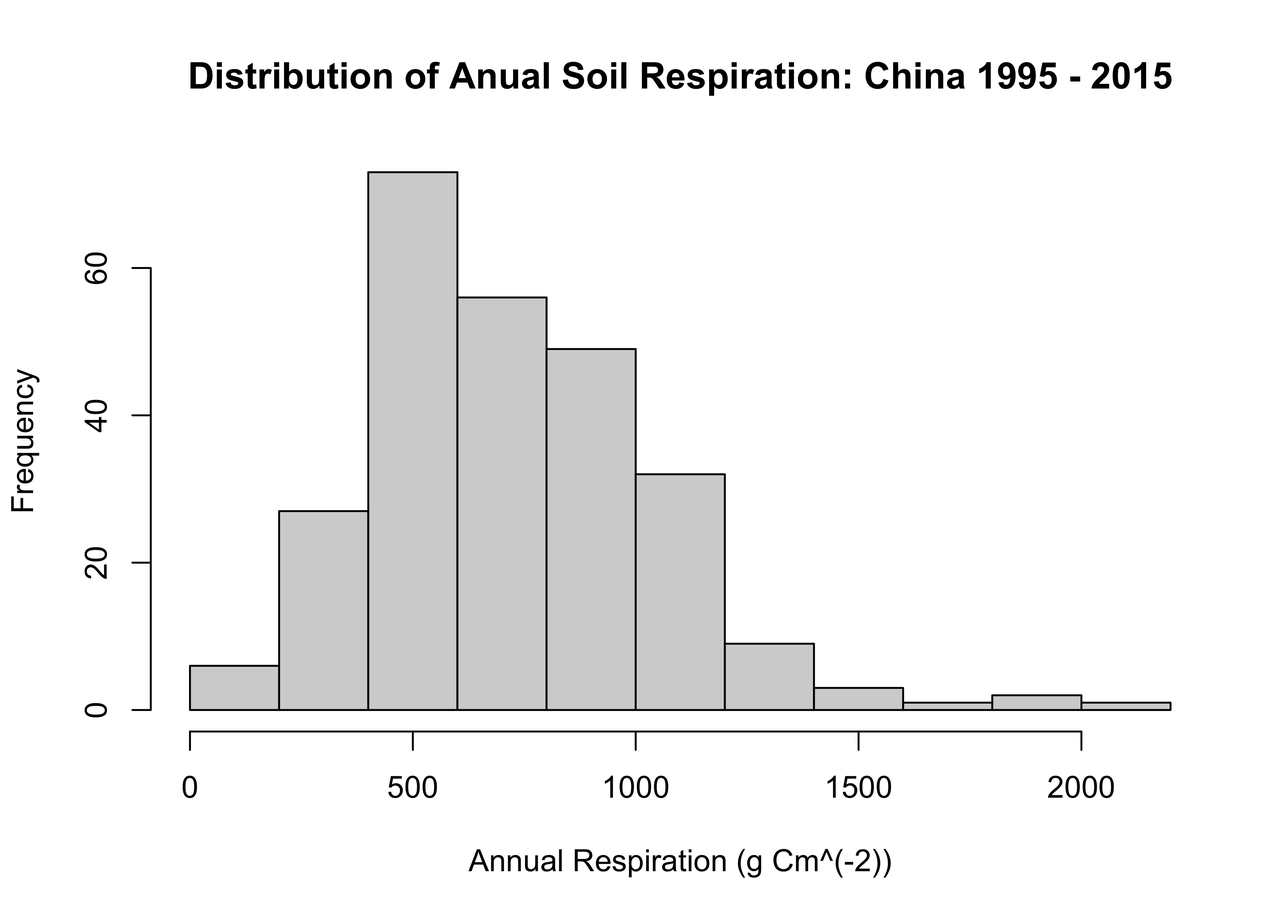
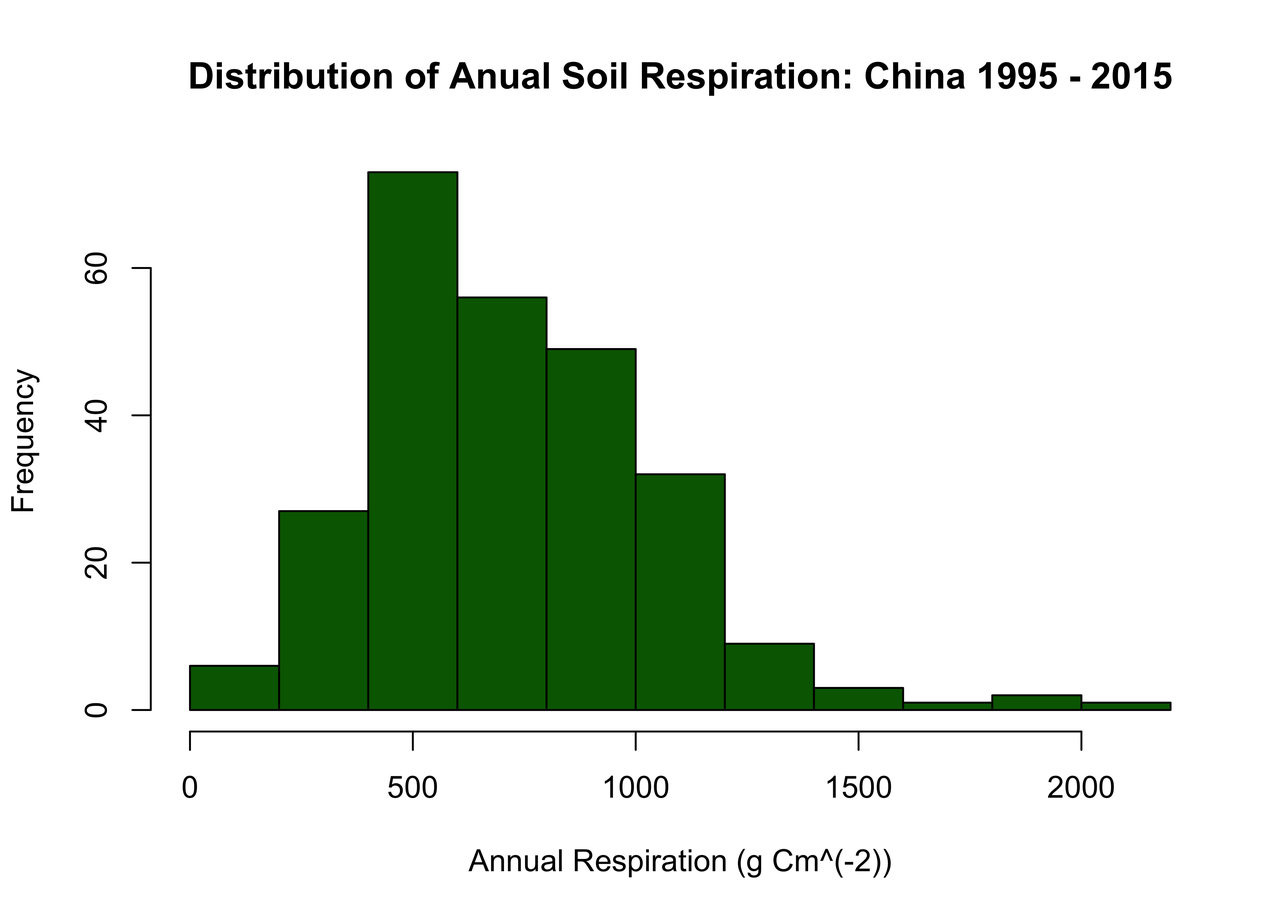
done, needs citations

Changed region(s): [[0.1248, 0.186, 0.9045, 0.775]]

diff --git a/docs/cleaning.html b/docs/cleaning.html
@@ -347,6 +347,9 @@ $(document).ready(function () {
     <li>
       <a href="bootstrap.html">Bootstrapping: Minimum/Maximum Differences</a>
     </li>
+    <li>
+      <a href="conclusion.html">Analysis and Concusion</a>
+    </li>
   </ul>
 </li>
       </ul>
@@ -594,28 +597,23 @@ soil respiration:</p>
 <div id="distribution-of-annual-soil-respiration"
 class="section level2">
 <h2>Distribution of Annual Soil Respiration:</h2>
-<div class="sourceCode" id="cb13"><pre class="sourceCode r"><code class="sourceCode r"><span id="cb13-1"><a href="#cb13-1" tabindex="-1"></a><span class="fu">hist</span>(cleaned_china<span class="sc">$</span>Rs_annual, <span class="at">main =</span> <span class="st">&quot;Distribution of Anual Soil Respiration: China 1995 - 2015&quot;</span>, <span class="at">xlab =</span> <span class="st">&quot;Annual Respiration (g Cm^(-2))&quot;</span>, <span class="at">color=</span><span class="st">&quot;darkgreen&quot;</span>)</span></code></pre></div>
-<pre><code>## Warning in plot.window(xlim, ylim, &quot;&quot;, ...): &quot;color&quot; is not a graphical parameter</code></pre>
-<pre><code>## Warning in title(main = main, sub = sub, xlab = xlab, ylab = ylab, ...): &quot;color&quot; is not a graphical
-## parameter</code></pre>
-<pre><code>## Warning in axis(1, ...): &quot;color&quot; is not a graphical parameter</code></pre>
-<pre><code>## Warning in axis(2, at = yt, ...): &quot;color&quot; is not a graphical parameter</code></pre>
+<div class="sourceCode" id="cb13"><pre class="sourceCode r"><code class="sourceCode r"><span id="cb13-1"><a href="#cb13-1" tabindex="-1"></a><span class="fu">hist</span>(cleaned_china<span class="sc">$</span>Rs_annual, <span class="at">main =</span> <span class="st">&quot;Distribution of Anual Soil Respiration: China 1995 - 2015&quot;</span>, <span class="at">xlab =</span> <span class="st">&quot;Annual Respiration (g Cm^(-2))&quot;</span>, <span class="at">col=</span><span class="st">&quot;darkgreen&quot;</span>)</span></code></pre></div>
 <p><img src="cleaning_files/figure-html/unnamed-chunk-5-1.png" width="2100" /></p>
 <p>And similarly to our last section I want to see the geographical
 distribution of this new cleaned data subset.</p>
 </div>
 <div id="graphing-the-new-cleaned-data-set" class="section level2">
 <h2>Graphing the new cleaned data set:</h2>
-<div class="sourceCode" id="cb18"><pre class="sourceCode r"><code class="sourceCode r"><span id="cb18-1"><a href="#cb18-1" tabindex="-1"></a><span class="co">#Make a base map</span></span>
-<span id="cb18-2"><a href="#cb18-2" tabindex="-1"></a>china_map <span class="ot">=</span> <span class="fu">map_data</span>(<span class="st">&quot;worldHires&quot;</span>, <span class="at">region =</span> <span class="st">&quot;china&quot;</span>)</span>
-<span id="cb18-3"><a href="#cb18-3" tabindex="-1"></a></span>
-<span id="cb18-4"><a href="#cb18-4" tabindex="-1"></a><span class="co">#added noise to the points x and y values</span></span>
-<span id="cb18-5"><a href="#cb18-5" tabindex="-1"></a><span class="co">#color by Rs_annual</span></span>
-<span id="cb18-6"><a href="#cb18-6" tabindex="-1"></a><span class="fu">ggplot</span>() <span class="sc">+</span></span>
-<span id="cb18-7"><a href="#cb18-7" tabindex="-1"></a>  <span class="fu">geom_polygon</span>(<span class="at">data =</span> china_map, <span class="fu">aes</span>(<span class="at">x =</span> long, <span class="at">y =</span> lat, <span class="at">group =</span> group), <span class="at">fill =</span> <span class="st">&quot;lightblue&quot;</span>, <span class="at">color=</span><span class="st">&#39;black&#39;</span>) <span class="sc">+</span></span>
-<span id="cb18-8"><a href="#cb18-8" tabindex="-1"></a>  <span class="fu">geom_point</span>(<span class="at">data =</span> cleaned_china, <span class="fu">aes</span>(<span class="at">x =</span> Longitude<span class="sc">+</span><span class="fu">rnorm</span>(<span class="at">n=</span><span class="fu">nrow</span>(cleaned_china)), <span class="at">y =</span> Latitude<span class="sc">+</span><span class="fu">rnorm</span>(<span class="at">n=</span><span class="fu">nrow</span>(cleaned_china)), <span class="at">color=</span>Rs_annual)) <span class="sc">+</span></span>
-<span id="cb18-9"><a href="#cb18-9" tabindex="-1"></a>  <span class="fu">coord_map</span>(<span class="at">projection =</span> <span class="st">&quot;mercator&quot;</span>) <span class="sc">+</span> </span>
-<span id="cb18-10"><a href="#cb18-10" tabindex="-1"></a>  <span class="fu">labs</span>(<span class="at">title =</span> <span class="st">&quot;Map of Soil Sample Sites in China&quot;</span>, <span class="at">x =</span> <span class="st">&quot;Longitude&quot;</span>, <span class="at">y =</span> <span class="st">&quot;Latitude&quot;</span>)</span></code></pre></div>
+<div class="sourceCode" id="cb14"><pre class="sourceCode r"><code class="sourceCode r"><span id="cb14-1"><a href="#cb14-1" tabindex="-1"></a><span class="co">#Make a base map</span></span>
+<span id="cb14-2"><a href="#cb14-2" tabindex="-1"></a>china_map <span class="ot">=</span> <span class="fu">map_data</span>(<span class="st">&quot;worldHires&quot;</span>, <span class="at">region =</span> <span class="st">&quot;china&quot;</span>)</span>
+<span id="cb14-3"><a href="#cb14-3" tabindex="-1"></a></span>
+<span id="cb14-4"><a href="#cb14-4" tabindex="-1"></a><span class="co">#added noise to the points x and y values</span></span>
+<span id="cb14-5"><a href="#cb14-5" tabindex="-1"></a><span class="co">#color by Rs_annual</span></span>
+<span id="cb14-6"><a href="#cb14-6" tabindex="-1"></a><span class="fu">ggplot</span>() <span class="sc">+</span></span>
+<span id="cb14-7"><a href="#cb14-7" tabindex="-1"></a>  <span class="fu">geom_polygon</span>(<span class="at">data =</span> china_map, <span class="fu">aes</span>(<span class="at">x =</span> long, <span class="at">y =</span> lat, <span class="at">group =</span> group), <span class="at">fill =</span> <span class="st">&quot;lightblue&quot;</span>, <span class="at">color=</span><span class="st">&#39;black&#39;</span>) <span class="sc">+</span></span>
+<span id="cb14-8"><a href="#cb14-8" tabindex="-1"></a>  <span class="fu">geom_point</span>(<span class="at">data =</span> cleaned_china, <span class="fu">aes</span>(<span class="at">x =</span> Longitude<span class="sc">+</span><span class="fu">rnorm</span>(<span class="at">n=</span><span class="fu">nrow</span>(cleaned_china)), <span class="at">y =</span> Latitude<span class="sc">+</span><span class="fu">rnorm</span>(<span class="at">n=</span><span class="fu">nrow</span>(cleaned_china)), <span class="at">color=</span>Rs_annual)) <span class="sc">+</span></span>
+<span id="cb14-9"><a href="#cb14-9" tabindex="-1"></a>  <span class="fu">coord_map</span>(<span class="at">projection =</span> <span class="st">&quot;mercator&quot;</span>) <span class="sc">+</span> </span>
+<span id="cb14-10"><a href="#cb14-10" tabindex="-1"></a>  <span class="fu">labs</span>(<span class="at">title =</span> <span class="st">&quot;Map of Soil Sample Sites in China&quot;</span>, <span class="at">x =</span> <span class="st">&quot;Longitude&quot;</span>, <span class="at">y =</span> <span class="st">&quot;Latitude&quot;</span>)</span></code></pre></div>
 <p><img src="cleaning_files/figure-html/unnamed-chunk-6-1.png" width="2100" />
 Great, We can see here that there is a pretty wide range of values of
 Annual Respiration. I am now goign to ask the question, what is the
@@ -629,8 +627,8 @@ class="section level2">
 Soil Respiration:</h2>
 <p>First lets calculate the median for each year (mostly to increase
 understanding in the data):</p>
-<div class="sourceCode" id="cb19"><pre class="sourceCode r"><code class="sourceCode r"><span id="cb19-1"><a href="#cb19-1" tabindex="-1"></a>Rs_median <span class="ot">&lt;-</span> cleaned_china <span class="sc">%&gt;%</span> <span class="fu">group_by</span>(Study_midyear) <span class="sc">%&gt;%</span> <span class="fu">summarize</span>(<span class="at">Median =</span> <span class="fu">median</span>(Rs_annual), <span class="at">High =</span> <span class="fu">max</span>(Rs_annual), <span class="at">Min =</span> <span class="fu">min</span>(Rs_annual))</span>
-<span id="cb19-2"><a href="#cb19-2" tabindex="-1"></a>Rs_median</span></code></pre></div>
+<div class="sourceCode" id="cb15"><pre class="sourceCode r"><code class="sourceCode r"><span id="cb15-1"><a href="#cb15-1" tabindex="-1"></a>Rs_median <span class="ot">&lt;-</span> cleaned_china <span class="sc">%&gt;%</span> <span class="fu">group_by</span>(Study_midyear) <span class="sc">%&gt;%</span> <span class="fu">summarize</span>(<span class="at">Median =</span> <span class="fu">median</span>(Rs_annual), <span class="at">High =</span> <span class="fu">max</span>(Rs_annual), <span class="at">Min =</span> <span class="fu">min</span>(Rs_annual))</span>
+<span id="cb15-2"><a href="#cb15-2" tabindex="-1"></a>Rs_median</span></code></pre></div>
 <pre><code>## # A tibble: 30 × 4
 ##    Study_midyear Median   High   Min
 ##            &lt;dbl&gt;  &lt;dbl&gt;  &lt;dbl&gt; &lt;dbl&gt;
@@ -645,14 +643,14 @@ understanding in the data):</p>
 ##  9         2006.  824.   851   662  
 ## 10         2006   530    822   322  
 ## # ℹ 20 more rows</code></pre>
-<div class="sourceCode" id="cb21"><pre class="sourceCode r"><code class="sourceCode r"><span id="cb21-1"><a href="#cb21-1" tabindex="-1"></a>mmm <span class="ot">&lt;-</span> <span class="fu">ggplot</span>(Rs_median, <span class="fu">aes</span>(<span class="at">x =</span> Study_midyear)) <span class="sc">+</span></span>
-<span id="cb21-2"><a href="#cb21-2" tabindex="-1"></a>  <span class="fu">geom_line</span>(<span class="fu">aes</span>(<span class="at">y =</span> Median, <span class="at">color =</span> <span class="st">&quot;Median&quot;</span>)) <span class="sc">+</span></span>
-<span id="cb21-3"><a href="#cb21-3" tabindex="-1"></a>  <span class="fu">geom_line</span>(<span class="fu">aes</span>(<span class="at">y =</span> High, <span class="at">color =</span> <span class="st">&quot;Maximum&quot;</span>)) <span class="sc">+</span></span>
-<span id="cb21-4"><a href="#cb21-4" tabindex="-1"></a>  <span class="fu">geom_line</span>(<span class="fu">aes</span>(<span class="at">y =</span> Min, <span class="at">color =</span> <span class="st">&quot;Minimum&quot;</span>)) <span class="sc">+</span></span>
-<span id="cb21-5"><a href="#cb21-5" tabindex="-1"></a>  <span class="fu">labs</span>(<span class="at">x =</span> <span class="st">&quot;Study Year&quot;</span>, <span class="at">y =</span> <span class="st">&quot;Annual Soil Respiration (g Cm^(-2))&quot;</span>, <span class="at">title =</span> <span class="st">&quot;Median, Maximum, and Minimum Soil Respiration in China&quot;</span>) <span class="sc">+</span></span>
-<span id="cb21-6"><a href="#cb21-6" tabindex="-1"></a>  <span class="fu">scale_color_manual</span>(<span class="at">values =</span> <span class="fu">c</span>(<span class="st">&quot;Median&quot;</span> <span class="ot">=</span> <span class="st">&quot;darkblue&quot;</span>, <span class="st">&quot;Maximum&quot;</span> <span class="ot">=</span> <span class="st">&quot;darkred&quot;</span>, <span class="st">&quot;Minimum&quot;</span> <span class="ot">=</span> <span class="st">&quot;darkgreen&quot;</span>)) <span class="sc">+</span></span>
-<span id="cb21-7"><a href="#cb21-7" tabindex="-1"></a>  <span class="fu">theme_minimal</span>()</span>
-<span id="cb21-8"><a href="#cb21-8" tabindex="-1"></a>mmm</span></code></pre></div>
+<div class="sourceCode" id="cb17"><pre class="sourceCode r"><code class="sourceCode r"><span id="cb17-1"><a href="#cb17-1" tabindex="-1"></a>mmm <span class="ot">&lt;-</span> <span class="fu">ggplot</span>(Rs_median, <span class="fu">aes</span>(<span class="at">x =</span> Study_midyear)) <span class="sc">+</span></span>
+<span id="cb17-2"><a href="#cb17-2" tabindex="-1"></a>  <span class="fu">geom_line</span>(<span class="fu">aes</span>(<span class="at">y =</span> Median, <span class="at">color =</span> <span class="st">&quot;Median&quot;</span>)) <span class="sc">+</span></span>
+<span id="cb17-3"><a href="#cb17-3" tabindex="-1"></a>  <span class="fu">geom_line</span>(<span class="fu">aes</span>(<span class="at">y =</span> High, <span class="at">color =</span> <span class="st">&quot;Maximum&quot;</span>)) <span class="sc">+</span></span>
+<span id="cb17-4"><a href="#cb17-4" tabindex="-1"></a>  <span class="fu">geom_line</span>(<span class="fu">aes</span>(<span class="at">y =</span> Min, <span class="at">color =</span> <span class="st">&quot;Minimum&quot;</span>)) <span class="sc">+</span></span>
+<span id="cb17-5"><a href="#cb17-5" tabindex="-1"></a>  <span class="fu">labs</span>(<span class="at">x =</span> <span class="st">&quot;Study Year&quot;</span>, <span class="at">y =</span> <span class="st">&quot;Annual Soil Respiration (g Cm^(-2))&quot;</span>, <span class="at">title =</span> <span class="st">&quot;Median, Maximum, and Minimum Soil Respiration in China&quot;</span>) <span class="sc">+</span></span>
+<span id="cb17-6"><a href="#cb17-6" tabindex="-1"></a>  <span class="fu">scale_color_manual</span>(<span class="at">values =</span> <span class="fu">c</span>(<span class="st">&quot;Median&quot;</span> <span class="ot">=</span> <span class="st">&quot;darkblue&quot;</span>, <span class="st">&quot;Maximum&quot;</span> <span class="ot">=</span> <span class="st">&quot;darkred&quot;</span>, <span class="st">&quot;Minimum&quot;</span> <span class="ot">=</span> <span class="st">&quot;darkgreen&quot;</span>)) <span class="sc">+</span></span>
+<span id="cb17-7"><a href="#cb17-7" tabindex="-1"></a>  <span class="fu">theme_minimal</span>()</span>
+<span id="cb17-8"><a href="#cb17-8" tabindex="-1"></a>mmm</span></code></pre></div>
 <p><img src="cleaning_files/figure-html/unnamed-chunk-8-1.png" width="2100" /></p>
 <p>We see here the temporal changes from 1999 to 2015, and we see how
 the soil respiration really fluctuates from year to year with an
@@ -663,8 +661,8 @@ interesting to me are the gaps between the min and max values for each
 year. This is what we will investigate in the next section, by sampling
 the small subset we are left with and calculating a distribution of
 total mean differences between the max and min values.</p>
-<div class="sourceCode" id="cb22"><pre class="sourceCode r"><code class="sourceCode r"><span id="cb22-1"><a href="#cb22-1" tabindex="-1"></a><span class="co">#export as new csv for bootstapping:</span></span>
-<span id="cb22-2"><a href="#cb22-2" tabindex="-1"></a><span class="fu">write.csv</span>(cleaned_china, <span class="at">file =</span> <span class="st">&quot;china_clean.csv&quot;</span>, <span class="at">row.names =</span> <span class="cn">FALSE</span>)</span></code></pre></div>
+<div class="sourceCode" id="cb18"><pre class="sourceCode r"><code class="sourceCode r"><span id="cb18-1"><a href="#cb18-1" tabindex="-1"></a><span class="co">#export as new csv for bootstapping:</span></span>
+<span id="cb18-2"><a href="#cb18-2" tabindex="-1"></a><span class="fu">write.csv</span>(cleaned_china, <span class="at">file =</span> <span class="st">&quot;china_clean.csv&quot;</span>, <span class="at">row.names =</span> <span class="cn">FALSE</span>)</span></code></pre></div>
 </div>
 </div>
 

diff --git a/docs/bootstrap.html b/docs/bootstrap.html
@@ -347,6 +347,9 @@ $(document).ready(function () {
     <li>
       <a href="bootstrap.html">Bootstrapping: Minimum/Maximum Differences</a>
     </li>
+    <li>
+      <a href="conclusion.html">Analysis and Concusion</a>
+    </li>
   </ul>
 </li>
       </ul>
@@ -443,10 +446,15 @@ interval of those as well for an added layer of certainty.</p>
 <span id="cb12-4"><a href="#cb12-4" tabindex="-1"></a>one_bootstrap <span class="ot">&lt;-</span> <span class="cf">function</span>(){</span>
 <span id="cb12-5"><a href="#cb12-5" tabindex="-1"></a>  result <span class="ot">&lt;-</span> <span class="fu">boot</span>(<span class="at">data =</span> RS, <span class="at">statistic =</span> rs_mean, <span class="at">R =</span> <span class="dv">1000</span>)</span>
 <span id="cb12-6"><a href="#cb12-6" tabindex="-1"></a>  <span class="fu">return</span> (result)}</span></code></pre></div>
-<p>Great, now we have some infestructure to run bootstrap simulations.
+<p>Great, now we have some infrastructure to run bootstrap simulations.
 First off let’s investigate one bootstrap iteration and its associated
-confidence interval: # visualizing the confidence interval of this one
-bootstraped simmulation:</p>
+confidence interval:</p>
+</div>
+<div
+id="visualizing-the-confidence-interval-of-one-bootstrapped-simmulation"
+class="section level1">
+<h1>Visualizing the Confidence Interval of One Bootstrapped
+Simmulation:</h1>
 <div class="sourceCode" id="cb13"><pre class="sourceCode r"><code class="sourceCode r"><span id="cb13-1"><a href="#cb13-1" tabindex="-1"></a><span class="co">#get one set bootstrap statistics</span></span>
 <span id="cb13-2"><a href="#cb13-2" tabindex="-1"></a>boot_results <span class="ot">&lt;-</span> <span class="fu">one_bootstrap</span>()<span class="sc">$</span>t</span>
 <span id="cb13-3"><a href="#cb13-3" tabindex="-1"></a></span>
@@ -491,7 +499,7 @@ simulation agian:</p>
 <span id="cb14-18"><a href="#cb14-18" tabindex="-1"></a>  <span class="co">#plotting the mean</span></span>
 <span id="cb14-19"><a href="#cb14-19" tabindex="-1"></a>  <span class="fu">geom_vline</span>(<span class="at">xintercept =</span> boot_mean, <span class="at">color =</span> <span class="st">&quot;darkgreen&quot;</span>, <span class="at">linetype =</span> <span class="st">&quot;dashed&quot;</span>) <span class="sc">+</span></span>
 <span id="cb14-20"><a href="#cb14-20" tabindex="-1"></a>  <span class="fu">labs</span>(<span class="at">x =</span> <span class="st">&quot;Mean Difference&quot;</span>, <span class="at">y =</span> <span class="st">&quot;Frequency&quot;</span>) <span class="sc">+</span></span>
-<span id="cb14-21"><a href="#cb14-21" tabindex="-1"></a>  <span class="fu">ggtitle</span>(<span class="st">&quot;Simulated Mean Difference&quot;</span>)</span></code></pre></div>
+<span id="cb14-21"><a href="#cb14-21" tabindex="-1"></a>  <span class="fu">ggtitle</span>(<span class="st">&quot;Simulated Mean Difference with Confidence Intervals &amp; Mean &quot;</span>)</span></code></pre></div>
 <p><img src="bootstrap_files/figure-html/unnamed-chunk-6-1.png" width="2100" />
 Now we can run this simulation a set number of times to determine the
 distribution of bootstrapped means and confidence intervals (because you
@@ -524,59 +532,37 @@ can see that they also vary by simulation)</p>
 <span id="cb15-26"><a href="#cb15-26" tabindex="-1"></a>    <span class="at">high =</span> high_ci,</span>
 <span id="cb15-27"><a href="#cb15-27" tabindex="-1"></a>    <span class="at">mean_bs =</span> <span class="fu">mean</span>(boot_stat)</span>
 <span id="cb15-28"><a href="#cb15-28" tabindex="-1"></a>  ))</span>
-<span id="cb15-29"><a href="#cb15-29" tabindex="-1"></a>}</span>
-<span id="cb15-30"><a href="#cb15-30" tabindex="-1"></a></span>
-<span id="cb15-31"><a href="#cb15-31" tabindex="-1"></a>ci_and_stat</span></code></pre></div>
-<pre><code>## # A tibble: 100 × 4
-##        n   low  high mean_bs
-##    &lt;int&gt; &lt;dbl&gt; &lt;dbl&gt;   &lt;dbl&gt;
-##  1     1  427.  588.    513.
-##  2     2  425.  592.    511.
-##  3     3  423.  590.    511.
-##  4     4  424.  586.    511.
-##  5     5  430.  588.    512.
-##  6     6  429.  589.    514.
-##  7     7  430.  597.    513.
-##  8     8  433.  596.    513.
-##  9     9  425.  586.    513.
-## 10    10  426.  597.    512.
-## # ℹ 90 more rows</code></pre>
+<span id="cb15-29"><a href="#cb15-29" tabindex="-1"></a>}</span></code></pre></div>
 <p>Awesome, now we can plot these to see the distribution of confidence
-intervals and get a pretty good gauge of our simulated statistic:</p>
-<div class="sourceCode" id="cb17"><pre class="sourceCode r"><code class="sourceCode r"><span id="cb17-1"><a href="#cb17-1" tabindex="-1"></a>test <span class="ot">&lt;-</span> RS <span class="sc">%&gt;%</span> <span class="fu">group_by</span>(Study_midyear) <span class="sc">%&gt;%</span> <span class="fu">summarize</span>(<span class="at">High =</span> <span class="fu">max</span>(Rs_annual))</span>
-<span id="cb17-2"><a href="#cb17-2" tabindex="-1"></a>test                                        </span></code></pre></div>
-<pre><code>## # A tibble: 30 × 2
-##    Study_midyear   High
-##            &lt;dbl&gt;  &lt;dbl&gt;
-##  1         2000.  775  
-##  2         2000    80.0
-##  3         2001    79.2
-##  4         2003  1240  
-##  5         2004. 1586  
-##  6         2004   992  
-##  7         2004. 1173  
-##  8         2005   720  
-##  9         2006.  851  
-## 10         2006   822  
-## # ℹ 20 more rows</code></pre>
-<div class="sourceCode" id="cb19"><pre class="sourceCode r"><code class="sourceCode r"><span id="cb19-1"><a href="#cb19-1" tabindex="-1"></a><span class="co">#specify our x and y values</span></span>
-<span id="cb19-2"><a href="#cb19-2" tabindex="-1"></a>x <span class="ot">&lt;-</span> ci_and_stat<span class="sc">$</span>n</span>
-<span id="cb19-3"><a href="#cb19-3" tabindex="-1"></a>y <span class="ot">&lt;-</span> ci_and_stat<span class="sc">$</span>mean_bs</span>
-<span id="cb19-4"><a href="#cb19-4" tabindex="-1"></a></span>
-<span id="cb19-5"><a href="#cb19-5" tabindex="-1"></a><span class="co">#get true mean</span></span>
-<span id="cb19-6"><a href="#cb19-6" tabindex="-1"></a>highs_and_lows<span class="ot">&lt;-</span> RS <span class="sc">%&gt;%</span> <span class="fu">group_by</span>(Study_midyear) <span class="sc">%&gt;%</span> <span class="fu">summarize</span>(<span class="at">High =</span> <span class="fu">max</span>(Rs_annual), <span class="at">Min =</span> <span class="fu">min</span>(Rs_annual))</span>
-<span id="cb19-7"><a href="#cb19-7" tabindex="-1"></a>rs_mean_difference <span class="ot">&lt;-</span> <span class="fu">mean</span>((highs_and_lows<span class="sc">$</span>High <span class="sc">-</span> highs_and_lows<span class="sc">$</span>Min))</span>
-<span id="cb19-8"><a href="#cb19-8" tabindex="-1"></a></span>
-<span id="cb19-9"><a href="#cb19-9" tabindex="-1"></a><span class="fu">ggplot</span>(ci_and_stat, <span class="fu">aes</span>(x, y)) <span class="sc">+</span> <span class="fu">geom_point</span>() <span class="sc">+</span>  </span>
-<span id="cb19-10"><a href="#cb19-10" tabindex="-1"></a><span class="fu">geom_errorbar</span>(<span class="fu">aes</span>(<span class="at">ymin =</span> low, <span class="at">ymax =</span> high)) <span class="sc">+</span> </span>
-<span id="cb19-11"><a href="#cb19-11" tabindex="-1"></a>  <span class="fu">labs</span>(<span class="at">x=</span><span class="st">&quot;Bootstrap Iteration&quot;</span>, <span class="at">y=</span><span class="st">&quot;Annual Respiration&quot;</span>, <span class="at">main=</span><span class="st">&quot;Distribution of Confidence Intervals in Relation to Observed Statisitc&quot;</span>) <span class="sc">+</span> </span>
-<span id="cb19-12"><a href="#cb19-12" tabindex="-1"></a>   <span class="fu">geom_hline</span>(<span class="at">yintercept=</span>rs_mean_difference, <span class="at">color =</span> <span class="st">&quot;Red&quot;</span>, <span class="at">linetype=</span><span class="st">&quot;dashed&quot;</span>)</span></code></pre></div>
-<p><img src="bootstrap_files/figure-html/unnamed-chunk-9-1.png" width="2100" />
-We can see here that our observed mean difference is statistically
-signigicant. Which means that the value we observed with the current
-sample doesnt nessicerily reflect that of the true population.</p>
-<p>We will cover the potetal reasons this may be in the next
-section.</p>
+intervals and get a pretty good gauge of our simulated statistic in
+comparison to the observed mean difference:</p>
+<div class="sourceCode" id="cb16"><pre class="sourceCode r"><code class="sourceCode r"><span id="cb16-1"><a href="#cb16-1" tabindex="-1"></a><span class="co">#specify our x and y values</span></span>
+<span id="cb16-2"><a href="#cb16-2" tabindex="-1"></a>x <span class="ot">&lt;-</span> ci_and_stat<span class="sc">$</span>n</span>
+<span id="cb16-3"><a href="#cb16-3" tabindex="-1"></a>y <span class="ot">&lt;-</span> ci_and_stat<span class="sc">$</span>mean_bs</span>
+<span id="cb16-4"><a href="#cb16-4" tabindex="-1"></a></span>
+<span id="cb16-5"><a href="#cb16-5" tabindex="-1"></a><span class="co">#get true mean</span></span>
+<span id="cb16-6"><a href="#cb16-6" tabindex="-1"></a>highs_and_lows<span class="ot">&lt;-</span> RS <span class="sc">%&gt;%</span> <span class="fu">group_by</span>(Study_midyear) <span class="sc">%&gt;%</span> <span class="fu">summarize</span>(<span class="at">High =</span> <span class="fu">max</span>(Rs_annual), <span class="at">Min =</span> <span class="fu">min</span>(Rs_annual))</span>
+<span id="cb16-7"><a href="#cb16-7" tabindex="-1"></a>rs_mean_difference <span class="ot">&lt;-</span> <span class="fu">mean</span>((highs_and_lows<span class="sc">$</span>High <span class="sc">-</span> highs_and_lows<span class="sc">$</span>Min))</span>
+<span id="cb16-8"><a href="#cb16-8" tabindex="-1"></a></span>
+<span id="cb16-9"><a href="#cb16-9" tabindex="-1"></a><span class="fu">ggplot</span>(ci_and_stat, <span class="fu">aes</span>(x, y)) <span class="sc">+</span> <span class="fu">geom_point</span>() <span class="sc">+</span>  </span>
+<span id="cb16-10"><a href="#cb16-10" tabindex="-1"></a><span class="fu">geom_errorbar</span>(<span class="fu">aes</span>(<span class="at">ymin =</span> low, <span class="at">ymax =</span> high)) <span class="sc">+</span> </span>
+<span id="cb16-11"><a href="#cb16-11" tabindex="-1"></a>  <span class="fu">labs</span>(<span class="at">x=</span><span class="st">&quot;Bootstrap Iteration&quot;</span>, <span class="at">y=</span><span class="st">&quot;Annual Respiration&quot;</span>, <span class="at">main=</span><span class="st">&quot;Distribution of Confidence Intervals in Relation to Observed Statisitc&quot;</span>) <span class="sc">+</span> </span>
+<span id="cb16-12"><a href="#cb16-12" tabindex="-1"></a>   <span class="fu">geom_hline</span>(<span class="at">yintercept=</span>rs_mean_difference, <span class="at">color =</span> <span class="st">&quot;Red&quot;</span>, <span class="at">linetype=</span><span class="st">&quot;dashed&quot;</span>)</span></code></pre></div>
+<p><img src="bootstrap_files/figure-html/unnamed-chunk-8-1.png" width="2100" /></p>
+</div>
+<div id="observations" class="section level1">
+<h1>Observations</h1>
+<p>Wild, we can see here that our observed mean difference is
+statistically significant. Which means that the value we observed with
+the current sample doesn’t necessarily reflect that of the true
+population.</p>
+<p>A potential reason for this is that there may be bias or outliers in
+the subset of data (which makes sense, we manipulated a lot here, but we
+are only exploring, and not drawing any major conclusions).</p>
+<p>Looking back on our line plot, we see that there does seem to be a
+huge difference between the highest and lowest values in the years 2011,
+and 2012 which might be having a large impact on the observation
+statistic, but it might not represent the population well at all.</p>
 </div>
 
 

diff --git a/docs/conclusion.html b/docs/conclusion.html
@@ -11,7 +11,7 @@
 
 
 
-<title>GEOG490 Soil Project</title>
+<title>Analysis</title>
 
 <script src="site_libs/header-attrs-2.25/header-attrs.js"></script>
 <script src="site_libs/jquery-3.6.0/jquery-3.6.0.min.js"></script>
@@ -269,59 +269,46 @@ $(document).ready(function () {
 
 
 
-<h1 class="title toc-ignore">GEOG490 Soil Project</h1>
+<h1 class="title toc-ignore">Analysis</h1>
 
 </div>
 
 
-<div
-id="project-web-page-for-geog-495-r-for-earth-system-science-soil-data-project"
-class="section level2">
-<h2>Project web page for GEOG 495 <em>R for Earth-System Science Soil
-Data Project</em></h2>
-<p>A project exploring a sparse data set, asking an exploratory question
-about the mean differences in Minimum and Maximum annual soil
-respiration values specifically in China, and simulating the bootstrap
-method to explore the means of those differences:<br />
+<div id="bootstrap-results" class="section level1">
+<h1>Bootstrap Results</h1>
+<p>As we can see, our observed value is always more than our highest
+confidence interval. This can happen for a couple of reasons, but
+mainly, I think what we have here is that there may be outliers and bias
+in our data. We see vast change in differences from year to year, but we
+are also only looking at a tiny subset of the data we started with, when
+we continuously subset we are potentially introducing bias into the
+simulation, which can result in an observed statistic that is way out in
+left field, this also indicates that our observed mean difference is not
+an accurate represendation of the population.</p>
+</div>
+<div id="thoughts-moving-forward" class="section level1">
+<h1>Thoughts Moving Forward</h1>
+<p>This data set was challenging to use for statistical analysis, it is
+missing vast amounts of information, and oftentimes the same study or
+studies done by the same outhor share certain features, but lack others,
+this resulted in a very small subset beign selected. I also want to note
+that this is only exploratory and I am not drawing any major conclusions
+about the findings from the simulation, only observing. I think moving
+forward with this set I would want to instead, find the mean difference
+using all country data, I thought being more selective would narrow down
+the features varriance, however, I think i may have introduce selective
+bias into the simulation.<br />
+<br />
+I feel that I understand how to move through this data set more
+efficiently, and also believe there are many more exploratory branches
+to climb. If I were to formulate a question before sub-setting, then we
+would be able to run simulations and take the results more seriously.
+This would be the case because sub-setting then coming up with a
+question is already a biased approach. <br />
+In future earth science exploratory analysis, I might try to find a data
+set that is fuller, and less broad in its features, then I will have
+more time and energy to be able to run other types of analysis.<br />
 </p>
-<p>Parts of this project include:</p>
-<ol style="list-style-type: decimal">
-<li>An Introduction to the Data Set &amp; Nature of the Project:
-<ol style="list-style-type: lower-alpha">
-<li>Who created it</li>
-<li>How it was accumulated</li>
-<li>Potential problems with the data</li>
-<li>Goals</li>
-</ol></li>
-<li>Selecting a subset &amp; exploring the data: Comparing Quality of
-Data Between Two Countries
-<ol style="list-style-type: lower-alpha">
-<li>Defining a purpose for the data subset</li>
-<li>Which feature should we investigate further</li>
-<li>Investigating the quality of data</li>
-</ol></li>
-<li>Data Cleaning for an exploratory purpose: China’s Annual Soil
-Respiration
-<ol style="list-style-type: lower-alpha">
-<li>How do we deal with missing values</li>
-<li>Selecting features to answer an exploratory question</li>
-<li>Potential problems with the data set now that it is cleaned</li>
-</ol></li>
-<li>Bootstrapping: Estimating Confidence in Mean Differences from 1999 -
-2015
-<ol style="list-style-type: lower-alpha">
-<li>What is the bootstrap method</li>
-<li>Why would we use it here</li>
-<li>The simulated values and associated confidence intervals<br />
-</li>
-</ol></li>
-<li>Conclusion:
-<ol style="list-style-type: lower-alpha">
-<li>Analysis of Bootstrap simulation</li>
-<li>Future thoughts</li>
-<li>Citations</li>
-</ol></li>
-</ol>
 </div>
 
 

diff --git a/docs/intro.html b/docs/intro.html
@@ -250,6 +250,9 @@ $(document).ready(function () {
     <li>
       <a href="bootstrap.html">Bootstrapping: Minimum/Maximum Differences</a>
     </li>
+    <li>
+      <a href="conclusion.html">Analysis and Concusion</a>
+    </li>
   </ul>
 </li>
       </ul>
@@ -276,7 +279,7 @@ class="section level1">
 <h1>About The Global Soil Respiration Database:</h1>
 <p><img src="SRDB_V5_Figure1.jpg"
 alt="SRDB Distribution of Data by Oak Ridge National Labratory" /> Map
-by Oakridge National Labratory</p>
+by Oakridge National Laboratory</p>
 <p>A Global Database of Soil Respiration Data (SRDB) was updated in 2021
 as Version 5.0 as a project by Oak Ridge National Laboratory. This
 includes multiple files, the main of which include the data file,
@@ -297,15 +300,18 @@ additions in an attempt to make the overall data set more representative
 of the information in journals on soil respiration, this broadened the
 spatial scope greatly, and in order to tell the story well, I will
 subset this data set to look at data pertaining to a single country that
-has the highest frequency of occurrences, and lowest percentace of NULL
+has the highest frequency of occurrences, and lowest percentage of NULL
 values.</p>
-<p>We will:<br />
-1. Talk about missing values, and how they have changed depending on the
-temporal aspect.<br />
-2. Inspect the environment of observations, and compare soil respiration
-levels.<br />
-3. Ask the question - Have those environments changed over time?<br />
-</p>
+<p>We will:</p>
+<ol style="list-style-type: decimal">
+<li>Talk about missing values, and how they have changed depending on
+the temporal aspect.</li>
+<li>Inspect the environment of observations, and compare soil
+respiration levels.</li>
+<li>Run a bootstrap model on one statistic</li>
+<li>Think about the meaning of this bootstrap simulation</li>
+<li>Talk about further ideas</li>
+</ol>
 <p>An interesting feature of this data set is that the creators have
 included Quality flags. This is a very useful feature to us because I
 can easily drop observations if they are of no use, or if they coincide

diff --git a/docs/subsetting.html b/docs/subsetting.html
@@ -342,10 +342,13 @@ $(document).ready(function () {
       <a href="subsetting.html">Choosing a Subset</a>
     </li>
     <li>
-      <a href="cleaning.html">Data Cleaning and Feature Selection</a>
+      <a href="cleaning.html">Exploratory Data Analysis and General Cleaning</a>
     </li>
     <li>
       <a href="bootstrap.html">Bootstrapping: Minimum/Maximum Differences</a>
+    </li>
+    <li>
+      <a href="conclusion.html">Analysis and Concusion</a>
     </li>
   </ul>
 </li>

diff --git a/docs/about.html b/docs/about.html
@@ -250,6 +250,9 @@ $(document).ready(function () {
     <li>
       <a href="bootstrap.html">Bootstrapping: Minimum/Maximum Differences</a>
     </li>
+    <li>
+      <a href="conclusion.html">Analysis and Concusion</a>
+    </li>
   </ul>
 </li>
       </ul>
